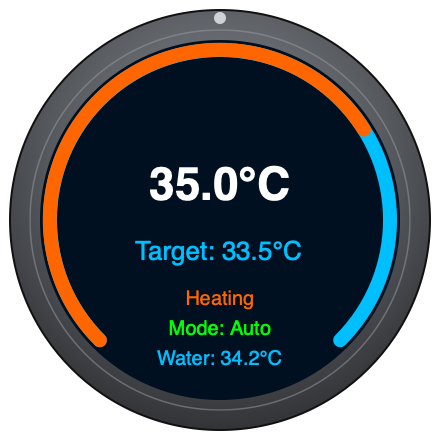
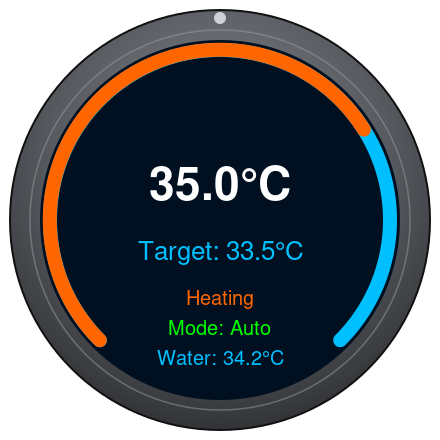
Show water temp as main reading, derive mode from Modbus register
The climate entity is HA's built-in modbus platform, which has no
hvac_action attribute at all (confirmed via the REST API) - the old
Heating/Idle/Off label was permanently stuck. Replaced it with:

- The dedicated water temperature sensor now drives the big center
  reading and gauge arc; the heat pump's own inlet/outlet temps moved
  to smaller secondary readings at the bottom.
- Mode label now reads a raw Modbus enum register (0=Auto, 1=Heating,
  2=Cooling), confirmed empirically by switching modes in the vendor
  app and reading the register back each time.
- An intermediate inlet/outlet-temp-delta heuristic for a live
  heating/cooling/idle status was tried and then removed as redundant
  once the mode register was wired up.

diff --git a/README.md b/README.md
@@ -7,17 +7,17 @@ controls a hot tub heat pump exposed in Home Assistant as a `climate` entity.
 ![UI mockup](assets/ui-mockup.png)
 
 *Mockup of the main screen layout (not a photo of the physical device) —
-gauge arc for current temp, target setpoint, HVAC action, mode, and the
-dedicated water temperature sensor reading.*
+gauge arc for water temp, target setpoint, mode, and the heat pump's own
+inlet/outlet temperature readings.*
 
 ## What it does
 
-- Displays the current water temperature (from a dedicated HA sensor) and the
-  heat pump's own `current_temperature` on a circular gauge.
+- Displays the dedicated water temperature sensor as the big center reading
+  and gauge arc, with the heat pump's own water inlet/outlet temps shown as
+  secondary readings below.
 - Shows the target setpoint, adjustable by turning the physical knob in
   **0.5°C steps**.
-- Shows the heat pump's HVAC action (Heating / Idle / Off) and its mode
-  (Auto / Off).
+- Shows what the heat pump is set to do (Auto / Heating / Cooling / Off).
 - Turning the knob calls `climate.set_temperature` (debounced 400ms so rapid
   turning doesn't spam Home Assistant).
 - Tapping the touchscreen toggles the heat pump between `auto` and `off`
@@ -181,9 +181,27 @@ one — it's easy to toggle a different device's entry by mistake.
   `climate.set_temperature` call after you stop turning, rather than one
   call per detent.
 - **`current_temp` vs `water_temp`.** The big number on the main gauge is
-  driven by the climate entity's own `current_temperature` attribute, which
-  may or may not be the same physical measurement as `water_temp_entity`'s
-  standalone sensor. Both are shown rather than assuming they're identical.
+  driven by `water_temp_entity`'s standalone sensor; the heat pump's own
+  water inlet/outlet temps (`current_temp` / `water_outlet_temp`) are shown
+  as smaller secondary readings at the bottom. These may or may not be the
+  same physical measurement as `water_temp_entity`, so both are shown
+  rather than assuming they're identical.
+- **No `hvac_action` on this climate entity - `lbl_mode` uses a Modbus
+  register instead.** `climate.hot_tub_heat_pump` is HA's built-in
+  `modbus:` climate platform, which has no concept of `hvac_action` at all -
+  confirmed via the HA REST API (`/api/states/climate.hot_tub_heat_pump`
+  never has that attribute). `update_mode_label` instead reads
+  `heat_pump_operating_mode_entity`, a raw Modbus enum register
+  (`sensor.hot_tub_heat_pump_operating_mode` in ha-stack's
+  `modbus_hottub.yaml`, not part of this repo) where `0=Auto, 1=Heating,
+  2=Cooling`, confirmed by switching modes in the vendor app and reading the
+  register back each time. This is a *selected-mode* register, not a live
+  running/idle signal - it stays put even while the compressor is idle
+  within that mode. Full register-map background lives in the `ha-stack`
+  repo's `pool-heatpump-integration.md`. (An earlier version of this
+  firmware also derived a live Heating/Cooling/Idle/Off status from the
+  inlet/outlet temp delta - removed as redundant once this register was
+  wired up.)
 
 ## Troubleshooting
 
